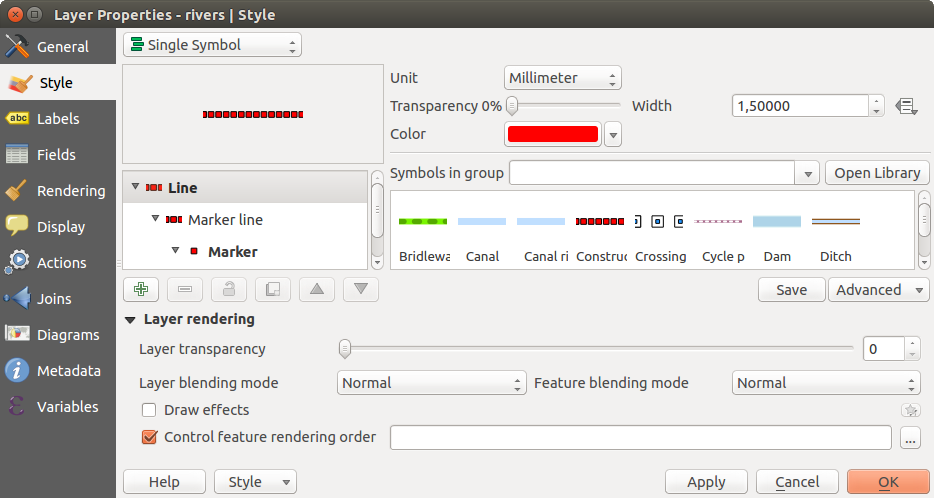
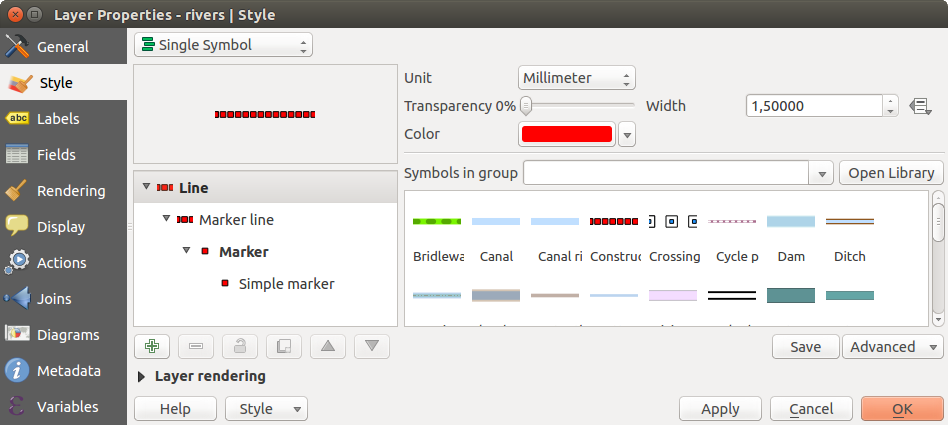
Working with vector - Style tab figure updates

diff --git a/source/docs/user_manual/working_with_vector/vector_properties.rst b/source/docs/user_manual/working_with_vector/vector_properties.rst
@@ -923,7 +923,18 @@ features of the layer:
   
   Once the :guilabel:`Define Order` dialog is applied, a summary of the expression(s)
   used to control the :index:`layer rendering` is retranscribed in the textbox
-  beside |checkbox| :guilabel:`Control feature rendering order` option. 
+  beside |checkbox| :guilabel:`Control feature rendering order` option.
+
+.. _figure_symbology_8:
+
+.. only:: html
+  
+     **Figure Symbology 8:**
+
+.. figure:: /static/user_manual/working_with_vector/layer_rendering_options.png
+   :align: center
+
+   Layer rendering options
 
 .. _vector_labels_tab:
 
